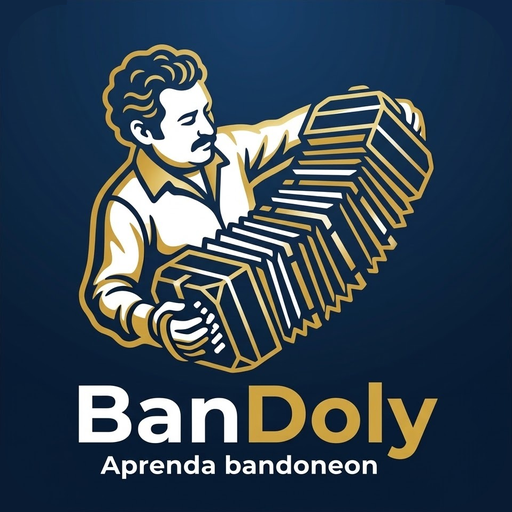
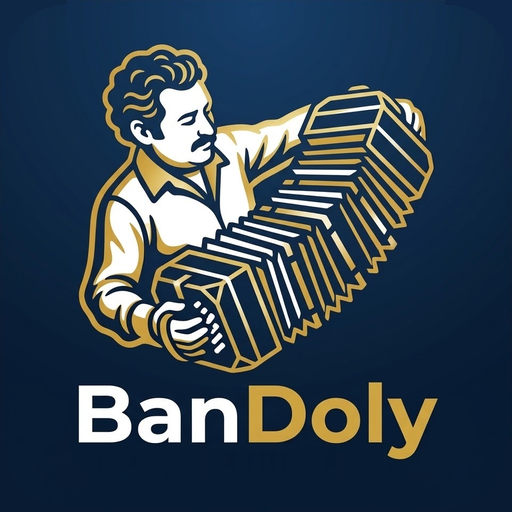
Ícone sem o texto em português
O ícone mantém o desenho e o nome BanDoly, que vale em todos os
idiomas; a frase "Aprenda bandoneon" saiu da imagem, já que o app
também é usado em espanhol e inglês. Cache do sw.js em v4.

Claude-Session: https://claude.ai/code/session_01XxjAasGQ9HUVneHZebmmUq

Changed region(s): [[0.1875, 0.875, 0.75, 0.9375]]

diff --git a/sw.js b/sw.js
@@ -1,7 +1,7 @@
 // Service worker: guarda o app no aparelho para funcionar offline.
 // Estratégia "rede primeiro": online sempre pega a versão mais nova; offline usa o cache.
 // Ao adicionar um arquivo novo ao index.html, inclua-o em ARQUIVOS (os testes conferem).
-const CACHE = 'bandoly-v3'; // mudar o nome apaga o cache antigo na ativação
+const CACHE = 'bandoly-v4'; // mudar o nome apaga o cache antigo na ativação
 const ARQUIVOS = [
   "./",
   "css/app.css",
